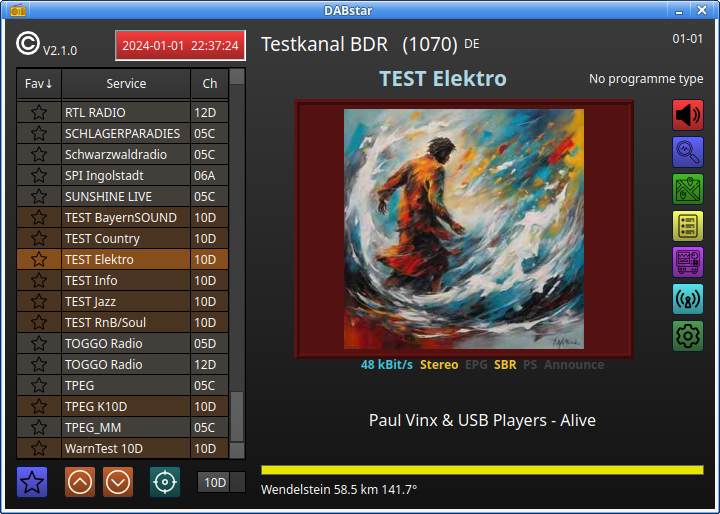
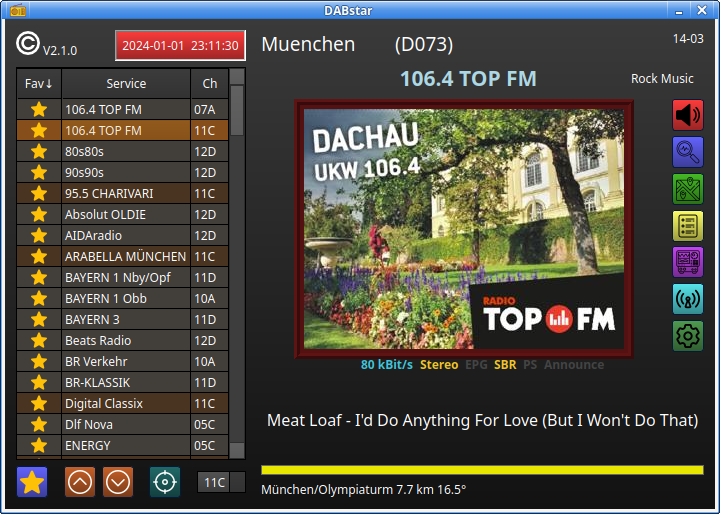
Provide edits to release to V2.1.0

diff --git a/README.md b/README.md
@@ -60,7 +60,13 @@ it here: [README.md of V1.7.1](https://github.com/tomneda/DABstar/blob/649431e0f
 ## What is new in 2.1.0
 
 - Some minor fixes and refinings made.
-- Add status information to the main Widget, see below the MOT picture:  
+- Add status information to the main Widget, see below the MOT picture: 
+  - Show the ACC decoder input bit rate.
+  - Show whether Stereo mode is active.
+  - Show whether EPG (Electronic Program Guide) data are available
+  - Show whether SBR (Spectrum Band Replication) mode is active
+  - Show whether PS (Parameter Stereo) mode is active
+  - Show whether an announcement is currently made. 
 
 ![](res/mainwidget.png)
 
